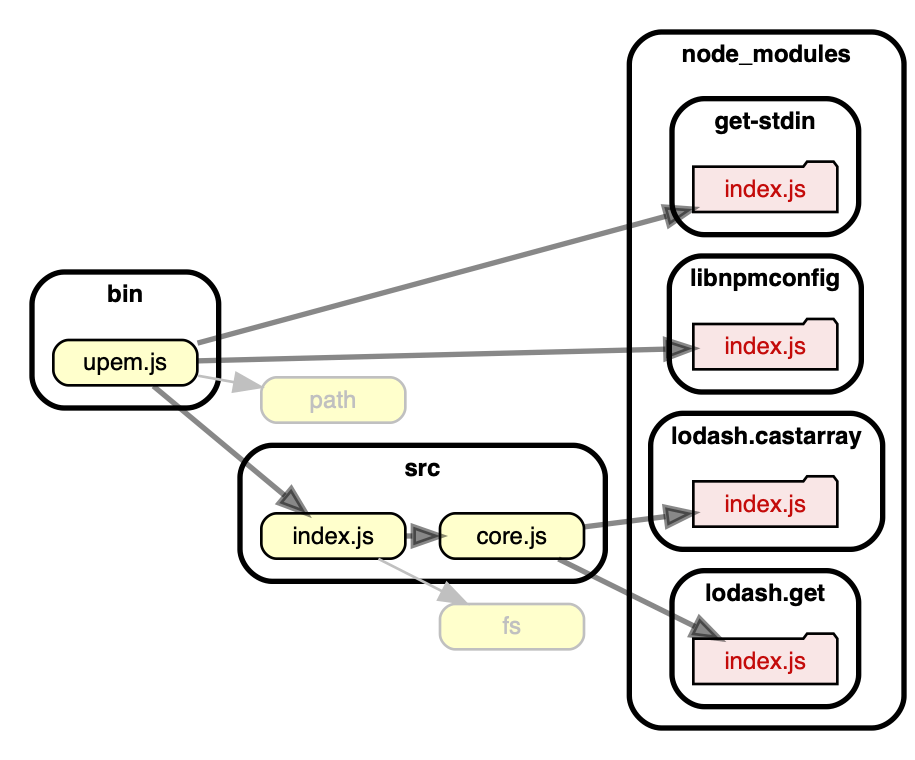
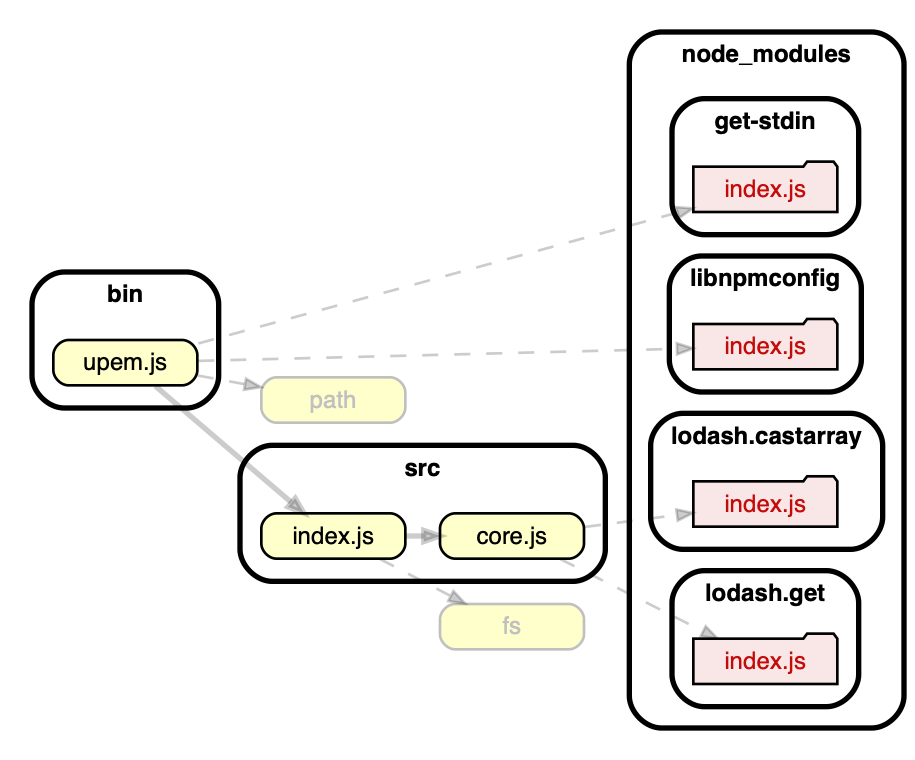
build(npm): :arrow_up: dependency-cruiser, eslint, eslint-config-prettier, eslint-plugin-import, eslint-plugin-node, lint-staged

diff --git a/docs/dependencygraph.html b/docs/dependencygraph.html
@@ -32,55 +32,55 @@
 <?xml version="1.0" encoding="UTF-8" standalone="no"?>
 <!DOCTYPE svg PUBLIC "-//W3C//DTD SVG 1.1//EN"
  "http://www.w3.org/Graphics/SVG/1.1/DTD/svg11.dtd">
-<!-- Generated by graphviz version 2.40.1 (20161225.0304)
+<!-- Generated by graphviz version 2.43.0 (0)
  -->
 <!-- Title: dependency&#45;cruiser output Pages: 1 -->
 <svg width="343pt" height="285pt"
  viewBox="0.00 0.00 343.00 285.00" xmlns="http://www.w3.org/2000/svg" xmlns:xlink="http://www.w3.org/1999/xlink">
 <g id="graph0" class="graph" transform="scale(1 1) rotate(0) translate(4 281)">
 <title>dependency&#45;cruiser output</title>
-<polygon fill="#ffffff" stroke="transparent" points="-4,4 -4,-281 339,-281 339,4 -4,4"/>
+<polygon fill="white" stroke="transparent" points="-4,4 -4,-281 339,-281 339,4 -4,4"/>
 <g id="clust1" class="cluster">
 <title>cluster_bin</title>
-<path fill="#ffffff" stroke="#000000" stroke-width="2" d="M20,-128C20,-128 66,-128 66,-128 72,-128 78,-134 78,-140 78,-140 78,-167 78,-167 78,-173 72,-179 66,-179 66,-179 20,-179 20,-179 14,-179 8,-173 8,-167 8,-167 8,-140 8,-140 8,-134 14,-128 20,-128"/>
-<text text-anchor="middle" x="43" y="-167.8" font-family="Helvetica,sans-Serif" font-weight="bold" font-size="9.00" fill="#000000">bin</text>
+<path fill="#ffffff" stroke="black" stroke-width="2" d="M20,-128C20,-128 66,-128 66,-128 72,-128 78,-134 78,-140 78,-140 78,-167 78,-167 78,-173 72,-179 66,-179 66,-179 20,-179 20,-179 14,-179 8,-173 8,-167 8,-167 8,-140 8,-140 8,-134 14,-128 20,-128"/>
+<text text-anchor="middle" x="43" y="-167.8" font-family="Helvetica,sans-Serif" font-weight="bold" font-size="9.00">bin</text>
 </g>
 <g id="clust2" class="cluster">
 <title>cluster_node_modules</title>
-<path fill="#ffffff" stroke="#000000" stroke-width="2" d="M244,-8C244,-8 323,-8 323,-8 329,-8 335,-14 335,-20 335,-20 335,-257 335,-257 335,-263 329,-269 323,-269 323,-269 244,-269 244,-269 238,-269 232,-263 232,-257 232,-257 232,-20 232,-20 232,-14 238,-8 244,-8"/>
-<text text-anchor="middle" x="283.5" y="-257.8" font-family="Helvetica,sans-Serif" font-weight="bold" font-size="9.00" fill="#000000">node_modules</text>
+<path fill="#ffffff" stroke="black" stroke-width="2" d="M244,-8C244,-8 323,-8 323,-8 329,-8 335,-14 335,-20 335,-20 335,-257 335,-257 335,-263 329,-269 323,-269 323,-269 244,-269 244,-269 238,-269 232,-263 232,-257 232,-257 232,-20 232,-20 232,-14 238,-8 244,-8"/>
+<text text-anchor="middle" x="283.5" y="-257.8" font-family="Helvetica,sans-Serif" font-weight="bold" font-size="9.00">node_modules</text>
 </g>
 <g id="clust3" class="cluster">
 <title>cluster_node_modules/get&#45;stdin</title>
-<path fill="#ffffff" stroke="#000000" stroke-width="2" d="M260,-193C260,-193 306,-193 306,-193 312,-193 318,-199 318,-205 318,-205 318,-232 318,-232 318,-238 312,-244 306,-244 306,-244 260,-244 260,-244 254,-244 248,-238 248,-232 248,-232 248,-205 248,-205 248,-199 254,-193 260,-193"/>
-<text text-anchor="middle" x="283" y="-232.8" font-family="Helvetica,sans-Serif" font-weight="bold" font-size="9.00" fill="#000000">get&#45;stdin</text>
+<path fill="#ffffff" stroke="black" stroke-width="2" d="M260,-193C260,-193 306,-193 306,-193 312,-193 318,-199 318,-205 318,-205 318,-232 318,-232 318,-238 312,-244 306,-244 306,-244 260,-244 260,-244 254,-244 248,-238 248,-232 248,-232 248,-205 248,-205 248,-199 254,-193 260,-193"/>
+<text text-anchor="middle" x="283" y="-232.8" font-family="Helvetica,sans-Serif" font-weight="bold" font-size="9.00">get&#45;stdin</text>
 </g>
 <g id="clust4" class="cluster">
 <title>cluster_node_modules/libnpmconfig</title>
-<path fill="#ffffff" stroke="#000000" stroke-width="2" d="M259,-134C259,-134 307,-134 307,-134 313,-134 319,-140 319,-146 319,-146 319,-173 319,-173 319,-179 313,-185 307,-185 307,-185 259,-185 259,-185 253,-185 247,-179 247,-173 247,-173 247,-146 247,-146 247,-140 253,-134 259,-134"/>
-<text text-anchor="middle" x="283" y="-173.8" font-family="Helvetica,sans-Serif" font-weight="bold" font-size="9.00" fill="#000000">libnpmconfig</text>
+<path fill="#ffffff" stroke="black" stroke-width="2" d="M259,-134C259,-134 307,-134 307,-134 313,-134 319,-140 319,-146 319,-146 319,-173 319,-173 319,-179 313,-185 307,-185 307,-185 259,-185 259,-185 253,-185 247,-179 247,-173 247,-173 247,-146 247,-146 247,-140 253,-134 259,-134"/>
+<text text-anchor="middle" x="283" y="-173.8" font-family="Helvetica,sans-Serif" font-weight="bold" font-size="9.00">libnpmconfig</text>
 </g>
 <g id="clust5" class="cluster">
 <title>cluster_node_modules/lodash.castarray</title>
-<path fill="#ffffff" stroke="#000000" stroke-width="2" d="M252,-75C252,-75 315,-75 315,-75 321,-75 327,-81 327,-87 327,-87 327,-114 327,-114 327,-120 321,-126 315,-126 315,-126 252,-126 252,-126 246,-126 240,-120 240,-114 240,-114 240,-87 240,-87 240,-81 246,-75 252,-75"/>
-<text text-anchor="middle" x="283.5" y="-114.8" font-family="Helvetica,sans-Serif" font-weight="bold" font-size="9.00" fill="#000000">lodash.castarray</text>
+<path fill="#ffffff" stroke="black" stroke-width="2" d="M252,-75C252,-75 315,-75 315,-75 321,-75 327,-81 327,-87 327,-87 327,-114 327,-114 327,-120 321,-126 315,-126 315,-126 252,-126 252,-126 246,-126 240,-120 240,-114 240,-114 240,-87 240,-87 240,-81 246,-75 252,-75"/>
+<text text-anchor="middle" x="283.5" y="-114.8" font-family="Helvetica,sans-Serif" font-weight="bold" font-size="9.00">lodash.castarray</text>
 </g>
 <g id="clust6" class="cluster">
 <title>cluster_node_modules/lodash.get</title>
-<path fill="#ffffff" stroke="#000000" stroke-width="2" d="M260,-16C260,-16 306,-16 306,-16 312,-16 318,-22 318,-28 318,-28 318,-55 318,-55 318,-61 312,-67 306,-67 306,-67 260,-67 260,-67 254,-67 248,-61 248,-55 248,-55 248,-28 248,-28 248,-22 254,-16 260,-16"/>
-<text text-anchor="middle" x="283" y="-55.8" font-family="Helvetica,sans-Serif" font-weight="bold" font-size="9.00" fill="#000000">lodash.get</text>
+<path fill="#ffffff" stroke="black" stroke-width="2" d="M260,-16C260,-16 306,-16 306,-16 312,-16 318,-22 318,-28 318,-28 318,-55 318,-55 318,-61 312,-67 306,-67 306,-67 260,-67 260,-67 254,-67 248,-61 248,-55 248,-55 248,-28 248,-28 248,-22 254,-16 260,-16"/>
+<text text-anchor="middle" x="283" y="-55.8" font-family="Helvetica,sans-Serif" font-weight="bold" font-size="9.00">lodash.get</text>
 </g>
 <g id="clust7" class="cluster">
 <title>cluster_src</title>
-<path fill="#ffffff" stroke="#000000" stroke-width="2" d="M98,-63C98,-63 211,-63 211,-63 217,-63 223,-69 223,-75 223,-75 223,-102 223,-102 223,-108 217,-114 211,-114 211,-114 98,-114 98,-114 92,-114 86,-108 86,-102 86,-102 86,-75 86,-75 86,-69 92,-63 98,-63"/>
-<text text-anchor="middle" x="154.5" y="-102.8" font-family="Helvetica,sans-Serif" font-weight="bold" font-size="9.00" fill="#000000">src</text>
+<path fill="#ffffff" stroke="black" stroke-width="2" d="M98,-63C98,-63 211,-63 211,-63 217,-63 223,-69 223,-75 223,-75 223,-102 223,-102 223,-108 217,-114 211,-114 211,-114 98,-114 98,-114 92,-114 86,-108 86,-102 86,-102 86,-75 86,-75 86,-69 92,-63 98,-63"/>
+<text text-anchor="middle" x="154.5" y="-102.8" font-family="Helvetica,sans-Serif" font-weight="bold" font-size="9.00">src</text>
 </g>
 <!-- bin/upem.js -->
 <g id="node1" class="node">
 <title>bin/upem.js</title>
 <g id="a_node1"><a xlink:href="https://github.com/sverweij/upem/blob/master/bin/upem.js" xlink:title="upem.js">
-<path fill="#ffffcc" stroke="#000000" d="M64.3333,-153.5C64.3333,-153.5 21.6667,-153.5 21.6667,-153.5 18.8333,-153.5 16,-150.6667 16,-147.8333 16,-147.8333 16,-142.1667 16,-142.1667 16,-139.3333 18.8333,-136.5 21.6667,-136.5 21.6667,-136.5 64.3333,-136.5 64.3333,-136.5 67.1667,-136.5 70,-139.3333 70,-142.1667 70,-142.1667 70,-147.8333 70,-147.8333 70,-150.6667 67.1667,-153.5 64.3333,-153.5"/>
-<text text-anchor="middle" x="43" y="-142.3" font-family="Helvetica,sans-Serif" font-size="9.00" fill="#000000">upem.js</text>
+<path fill="#ffffcc" stroke="black" d="M64.33,-153.5C64.33,-153.5 21.67,-153.5 21.67,-153.5 18.83,-153.5 16,-150.67 16,-147.83 16,-147.83 16,-142.17 16,-142.17 16,-139.33 18.83,-136.5 21.67,-136.5 21.67,-136.5 64.33,-136.5 64.33,-136.5 67.17,-136.5 70,-139.33 70,-142.17 70,-142.17 70,-147.83 70,-147.83 70,-150.67 67.17,-153.5 64.33,-153.5"/>
+<text text-anchor="middle" x="43" y="-142.3" font-family="Helvetica,sans-Serif" font-size="9.00">upem.js</text>
 </a>
 </g>
 </g>
@@ -88,7 +88,7 @@
 <g id="node3" class="node">
 <title>node_modules/get&#45;stdin/index.js</title>
 <g id="a_node3"><a xlink:href="https://github.com/sverweij/upem/blob/master/node_modules/get-stdin/index.js" xlink:title="index.js">
-<polygon fill="#c40b0a" fill-opacity="0.101961" stroke="#000000" points="310,-218.5 308.5833,-220.3889 298.6667,-220.3889 297.25,-218.5 256,-218.5 256,-201.5 310,-201.5 310,-218.5"/>
+<polygon fill="#c40b0a" fill-opacity="0.101961" stroke="black" points="310,-218.5 308.58,-220.39 298.67,-220.39 297.25,-218.5 256,-218.5 256,-201.5 310,-201.5 310,-218.5"/>
 <text text-anchor="middle" x="283" y="-207.3" font-family="Helvetica,sans-Serif" font-size="9.00" fill="#c40b0a">index.js</text>
 </a>
 </g>
@@ -96,14 +96,14 @@
 <!-- bin/upem.js&#45;&gt;node_modules/get&#45;stdin/index.js -->
 <g id="edge2" class="edge">
 <title>bin/upem.js&#45;&gt;node_modules/get&#45;stdin/index.js</title>
-<path fill="none" stroke="#000000" stroke-width="2" stroke-opacity="0.466667" d="M70.0645,-152.33C113.0975,-163.9847 197.215,-186.7666 245.8533,-199.9394"/>
-<polygon fill="#000000" fill-opacity="0.466667" stroke="#000000" stroke-width="2" stroke-opacity="0.466667" points="245.0989,-203.3611 255.6662,-202.5971 246.9289,-196.6046 245.0989,-203.3611"/>
+<path fill="none" stroke="#000000" stroke-dasharray="5,2" stroke-opacity="0.200000" d="M70.38,-152.2C114.37,-164.22 202.54,-188.3 250.01,-201.26"/>
+<polygon fill="#000000" fill-opacity="0.200000" stroke="#000000" stroke-opacity="0.200000" points="249.52,-203.31 255.87,-202.86 250.63,-199.26 249.52,-203.31"/>
 </g>
 <!-- node_modules/libnpmconfig/index.js -->
 <g id="node4" class="node">
 <title>node_modules/libnpmconfig/index.js</title>
 <g id="a_node4"><a xlink:href="https://github.com/sverweij/upem/blob/master/node_modules/libnpmconfig/index.js" xlink:title="index.js">
-<polygon fill="#c40b0a" fill-opacity="0.101961" stroke="#000000" points="310,-159.5 308.5833,-161.3889 298.6667,-161.3889 297.25,-159.5 256,-159.5 256,-142.5 310,-142.5 310,-159.5"/>
+<polygon fill="#c40b0a" fill-opacity="0.101961" stroke="black" points="310,-159.5 308.58,-161.39 298.67,-161.39 297.25,-159.5 256,-159.5 256,-142.5 310,-142.5 310,-159.5"/>
 <text text-anchor="middle" x="283" y="-148.3" font-family="Helvetica,sans-Serif" font-size="9.00" fill="#c40b0a">index.js</text>
 </a>
 </g>
@@ -111,47 +111,47 @@
 <!-- bin/upem.js&#45;&gt;node_modules/libnpmconfig/index.js -->
 <g id="edge3" class="edge">
 <title>bin/upem.js&#45;&gt;node_modules/libnpmconfig/index.js</title>
-<path fill="none" stroke="#000000" stroke-width="2" stroke-opacity="0.466667" d="M70.0645,-145.6766C113.0074,-146.7502 196.8632,-148.8466 245.5476,-150.0637"/>
-<polygon fill="#000000" fill-opacity="0.466667" stroke="#000000" stroke-width="2" stroke-opacity="0.466667" points="245.5818,-153.5655 255.6662,-150.3167 245.7568,-146.5677 245.5818,-153.5655"/>
+<path fill="none" stroke="#000000" stroke-dasharray="5,2" stroke-opacity="0.200000" d="M70.38,-145.67C114.28,-146.77 202.18,-148.99 249.71,-150.19"/>
+<polygon fill="#000000" fill-opacity="0.200000" stroke="#000000" stroke-opacity="0.200000" points="249.81,-152.29 255.87,-150.34 249.92,-148.09 249.81,-152.29"/>
 </g>
 <!-- path -->
 <g id="node7" class="node">
 <title>path</title>
-<path fill="#ffffcc" stroke="#c0c0c0" d="M142.3333,-139.5C142.3333,-139.5 99.6667,-139.5 99.6667,-139.5 96.8333,-139.5 94,-136.6667 94,-133.8333 94,-133.8333 94,-128.1667 94,-128.1667 94,-125.3333 96.8333,-122.5 99.6667,-122.5 99.6667,-122.5 142.3333,-122.5 142.3333,-122.5 145.1667,-122.5 148,-125.3333 148,-128.1667 148,-128.1667 148,-133.8333 148,-133.8333 148,-136.6667 145.1667,-139.5 142.3333,-139.5"/>
-<text text-anchor="middle" x="121" y="-128.3" font-family="Helvetica,sans-Serif" font-size="9.00" fill="#c0c0c0">path</text>
+<path fill="#ffffcc" stroke="grey" d="M142.33,-139.5C142.33,-139.5 99.67,-139.5 99.67,-139.5 96.83,-139.5 94,-136.67 94,-133.83 94,-133.83 94,-128.17 94,-128.17 94,-125.33 96.83,-122.5 99.67,-122.5 99.67,-122.5 142.33,-122.5 142.33,-122.5 145.17,-122.5 148,-125.33 148,-128.17 148,-128.17 148,-133.83 148,-133.83 148,-136.67 145.17,-139.5 142.33,-139.5"/>
+<text text-anchor="middle" x="121" y="-128.3" font-family="Helvetica,sans-Serif" font-size="9.00" fill="grey">path</text>
 </g>
 <!-- bin/upem.js&#45;&gt;path -->
 <g id="edge4" class="edge">
 <title>bin/upem.js&#45;&gt;path</title>
-<path fill="none" stroke="#c0c0c0" d="M70.2806,-140.1035C74.6999,-139.3103 79.3404,-138.4774 83.9447,-137.6509"/>
-<polygon fill="#c0c0c0" stroke="#c0c0c0" points="84.6421,-141.0818 93.8665,-135.8701 83.4054,-134.1919 84.6421,-141.0818"/>
+<path fill="none" stroke="#000000" stroke-dasharray="5,2" stroke-opacity="0.200000" d="M70.15,-140.18C75.77,-139.15 81.76,-138.04 87.58,-136.97"/>
+<polygon fill="#000000" fill-opacity="0.200000" stroke="#000000" stroke-opacity="0.200000" points="88.28,-138.98 93.8,-135.83 87.52,-134.85 88.28,-138.98"/>
 </g>
 <!-- src/index.js -->
 <g id="node9" class="node">
 <title>src/index.js</title>
 <g id="a_node9"><a xlink:href="https://github.com/sverweij/upem/blob/master/src/index.js" xlink:title="index.js">
-<path fill="#ffffcc" stroke="#000000" d="M142.3333,-88.5C142.3333,-88.5 99.6667,-88.5 99.6667,-88.5 96.8333,-88.5 94,-85.6667 94,-82.8333 94,-82.8333 94,-77.1667 94,-77.1667 94,-74.3333 96.8333,-71.5 99.6667,-71.5 99.6667,-71.5 142.3333,-71.5 142.3333,-71.5 145.1667,-71.5 148,-74.3333 148,-77.1667 148,-77.1667 148,-82.8333 148,-82.8333 148,-85.6667 145.1667,-88.5 142.3333,-88.5"/>
-<text text-anchor="middle" x="121" y="-77.3" font-family="Helvetica,sans-Serif" font-size="9.00" fill="#000000">index.js</text>
+<path fill="#ffffcc" stroke="black" d="M142.33,-88.5C142.33,-88.5 99.67,-88.5 99.67,-88.5 96.83,-88.5 94,-85.67 94,-82.83 94,-82.83 94,-77.17 94,-77.17 94,-74.33 96.83,-71.5 99.67,-71.5 99.67,-71.5 142.33,-71.5 142.33,-71.5 145.17,-71.5 148,-74.33 148,-77.17 148,-77.17 148,-82.83 148,-82.83 148,-85.67 145.17,-88.5 142.33,-88.5"/>
+<text text-anchor="middle" x="121" y="-77.3" font-family="Helvetica,sans-Serif" font-size="9.00">index.js</text>
 </a>
 </g>
 </g>
 <!-- bin/upem.js&#45;&gt;src/index.js -->
 <g id="edge1" class="edge">
 <title>bin/upem.js&#45;&gt;src/index.js</title>
-<path fill="none" stroke="#000000" stroke-width="2" stroke-opacity="0.466667" d="M53.5194,-136.2338C66.1504,-125.708 87.5448,-107.8793 102.8591,-95.1174"/>
-<polygon fill="#000000" fill-opacity="0.466667" stroke="#000000" stroke-width="2" stroke-opacity="0.466667" points="105.2057,-97.718 110.6472,-88.6273 100.7243,-92.3404 105.2057,-97.718"/>
+<path fill="none" stroke="#000000" stroke-width="2" stroke-opacity="0.200000" d="M54.25,-136.23C67.35,-125.03 90.14,-105.54 105.15,-92.7"/>
+<polygon fill="#000000" fill-opacity="0.200000" stroke="#000000" stroke-width="2" stroke-opacity="0.200000" points="106.72,-94.12 109.91,-88.63 103.99,-90.93 106.72,-94.12"/>
 </g>
 <!-- fs -->
 <g id="node2" class="node">
 <title>fs</title>
-<path fill="#ffffcc" stroke="#c0c0c0" d="M209.3333,-54.5C209.3333,-54.5 166.6667,-54.5 166.6667,-54.5 163.8333,-54.5 161,-51.6667 161,-48.8333 161,-48.8333 161,-43.1667 161,-43.1667 161,-40.3333 163.8333,-37.5 166.6667,-37.5 166.6667,-37.5 209.3333,-37.5 209.3333,-37.5 212.1667,-37.5 215,-40.3333 215,-43.1667 215,-43.1667 215,-48.8333 215,-48.8333 215,-51.6667 212.1667,-54.5 209.3333,-54.5"/>
-<text text-anchor="middle" x="188" y="-43.3" font-family="Helvetica,sans-Serif" font-size="9.00" fill="#c0c0c0">fs</text>
+<path fill="#ffffcc" stroke="grey" d="M209.33,-54.5C209.33,-54.5 166.67,-54.5 166.67,-54.5 163.83,-54.5 161,-51.67 161,-48.83 161,-48.83 161,-43.17 161,-43.17 161,-40.33 163.83,-37.5 166.67,-37.5 166.67,-37.5 209.33,-37.5 209.33,-37.5 212.17,-37.5 215,-40.33 215,-43.17 215,-43.17 215,-48.83 215,-48.83 215,-51.67 212.17,-54.5 209.33,-54.5"/>
+<text text-anchor="middle" x="188" y="-43.3" font-family="Helvetica,sans-Serif" font-size="9.00" fill="grey">fs</text>
 </g>
 <!-- node_modules/lodash.castarray/index.js -->
 <g id="node5" class="node">
 <title>node_modules/lodash.castarray/index.js</title>
 <g id="a_node5"><a xlink:href="https://github.com/sverweij/upem/blob/master/node_modules/lodash.castarray/index.js" xlink:title="index.js">
-<polygon fill="#c40b0a" fill-opacity="0.101961" stroke="#000000" points="310,-100.5 308.5833,-102.3889 298.6667,-102.3889 297.25,-100.5 256,-100.5 256,-83.5 310,-83.5 310,-100.5"/>
+<polygon fill="#c40b0a" fill-opacity="0.101961" stroke="black" points="310,-100.5 308.58,-102.39 298.67,-102.39 297.25,-100.5 256,-100.5 256,-83.5 310,-83.5 310,-100.5"/>
 <text text-anchor="middle" x="283" y="-89.3" font-family="Helvetica,sans-Serif" font-size="9.00" fill="#c40b0a">index.js</text>
 </a>
 </g>
@@ -160,7 +160,7 @@
 <g id="node6" class="node">
 <title>node_modules/lodash.get/index.js</title>
 <g id="a_node6"><a xlink:href="https://github.com/sverweij/upem/blob/master/node_modules/lodash.get/index.js" xlink:title="index.js">
-<polygon fill="#c40b0a" fill-opacity="0.101961" stroke="#000000" points="310,-41.5 308.5833,-43.3889 298.6667,-43.3889 297.25,-41.5 256,-41.5 256,-24.5 310,-24.5 310,-41.5"/>
+<polygon fill="#c40b0a" fill-opacity="0.101961" stroke="black" points="310,-41.5 308.58,-43.39 298.67,-43.39 297.25,-41.5 256,-41.5 256,-24.5 310,-24.5 310,-41.5"/>
 <text text-anchor="middle" x="283" y="-30.3" font-family="Helvetica,sans-Serif" font-size="9.00" fill="#c40b0a">index.js</text>
 </a>
 </g>
@@ -169,34 +169,34 @@
 <g id="node8" class="node">
 <title>src/core.js</title>
 <g id="a_node8"><a xlink:href="https://github.com/sverweij/upem/blob/master/src/core.js" xlink:title="core.js">
-<path fill="#ffffcc" stroke="#000000" d="M209.3333,-88.5C209.3333,-88.5 166.6667,-88.5 166.6667,-88.5 163.8333,-88.5 161,-85.6667 161,-82.8333 161,-82.8333 161,-77.1667 161,-77.1667 161,-74.3333 163.8333,-71.5 166.6667,-71.5 166.6667,-71.5 209.3333,-71.5 209.3333,-71.5 212.1667,-71.5 215,-74.3333 215,-77.1667 215,-77.1667 215,-82.8333 215,-82.8333 215,-85.6667 212.1667,-88.5 209.3333,-88.5"/>
-<text text-anchor="middle" x="188" y="-77.3" font-family="Helvetica,sans-Serif" font-size="9.00" fill="#000000">core.js</text>
+<path fill="#ffffcc" stroke="black" d="M209.33,-88.5C209.33,-88.5 166.67,-88.5 166.67,-88.5 163.83,-88.5 161,-85.67 161,-82.83 161,-82.83 161,-77.17 161,-77.17 161,-74.33 163.83,-71.5 166.67,-71.5 166.67,-71.5 209.33,-71.5 209.33,-71.5 212.17,-71.5 215,-74.33 215,-77.17 215,-77.17 215,-82.83 215,-82.83 215,-85.67 212.17,-88.5 209.33,-88.5"/>
+<text text-anchor="middle" x="188" y="-77.3" font-family="Helvetica,sans-Serif" font-size="9.00">core.js</text>
 </a>
 </g>
 </g>
 <!-- src/core.js&#45;&gt;node_modules/lodash.castarray/index.js -->
 <g id="edge5" class="edge">
 <title>src/core.js&#45;&gt;node_modules/lodash.castarray/index.js</title>
-<path fill="none" stroke="#000000" stroke-width="2" stroke-opacity="0.466667" d="M215.2232,-83.4387C224.664,-84.6312 235.4204,-85.99 245.5398,-87.2682"/>
-<polygon fill="#000000" fill-opacity="0.466667" stroke="#000000" stroke-width="2" stroke-opacity="0.466667" points="245.413,-90.7799 255.7728,-88.5608 246.2903,-83.8351 245.413,-90.7799"/>
+<path fill="none" stroke="#000000" stroke-dasharray="5,2" stroke-opacity="0.200000" d="M215.4,-83.41C226.09,-84.79 238.54,-86.39 249.77,-87.84"/>
+<polygon fill="#000000" fill-opacity="0.200000" stroke="#000000" stroke-opacity="0.200000" points="249.64,-89.94 255.85,-88.63 250.17,-85.78 249.64,-89.94"/>
 </g>
 <!-- src/core.js&#45;&gt;node_modules/lodash.get/index.js -->
 <g id="edge6" class="edge">
 <title>src/core.js&#45;&gt;node_modules/lodash.get/index.js</title>
-<path fill="none" stroke="#000000" stroke-width="2" stroke-opacity="0.466667" d="M205.4245,-71.3795C219.7533,-64.2905 240.2851,-54.1326 256.6269,-46.0477"/>
-<polygon fill="#000000" fill-opacity="0.466667" stroke="#000000" stroke-width="2" stroke-opacity="0.466667" points="258.275,-49.1374 265.686,-41.5659 255.1709,-42.8632 258.275,-49.1374"/>
+<path fill="none" stroke="#000000" stroke-dasharray="5,2" stroke-opacity="0.200000" d="M206.06,-71.38C221,-63.83 242.84,-52.79 259.27,-44.49"/>
+<polygon fill="#000000" fill-opacity="0.200000" stroke="#000000" stroke-opacity="0.200000" points="260.64,-46.15 265.05,-41.57 258.75,-42.4 260.64,-46.15"/>
 </g>
 <!-- src/index.js&#45;&gt;fs -->
 <g id="edge8" class="edge">
 <title>src/index.js&#45;&gt;fs</title>
-<path fill="none" stroke="#c0c0c0" d="M137.9069,-71.4204C145.1513,-67.7441 153.7807,-63.365 161.8191,-59.2858"/>
-<polygon fill="#c0c0c0" stroke="#c0c0c0" points="163.5318,-62.3416 170.8654,-54.6952 160.3641,-56.0994 163.5318,-62.3416"/>
+<path fill="none" stroke="#000000" stroke-dasharray="5,2" stroke-opacity="0.200000" d="M138.4,-71.42C146.35,-67.26 156.01,-62.21 164.62,-57.71"/>
+<polygon fill="#000000" fill-opacity="0.200000" stroke="#000000" stroke-opacity="0.200000" points="166.03,-59.34 170.38,-54.7 164.09,-55.62 166.03,-59.34"/>
 </g>
 <!-- src/index.js&#45;&gt;src/core.js -->
 <g id="edge7" class="edge">
 <title>src/index.js&#45;&gt;src/core.js</title>
-<path fill="none" stroke="#000000" stroke-width="2" stroke-opacity="0.466667" d="M148.2515,-80C149.0394,-80 149.8322,-80 150.6279,-80"/>
-<polygon fill="#000000" fill-opacity="0.466667" stroke="#000000" stroke-width="2" stroke-opacity="0.466667" points="150.9899,-83.5001 160.9899,-80 150.9899,-76.5001 150.9899,-83.5001"/>
+<path fill="none" stroke="#000000" stroke-width="2" stroke-opacity="0.200000" d="M148.06,-80C150.32,-80 152.61,-80 154.9,-80"/>
+<polygon fill="#000000" fill-opacity="0.200000" stroke="#000000" stroke-width="2" stroke-opacity="0.200000" points="154.93,-82.1 160.93,-80 154.93,-77.9 154.93,-82.1"/>
 </g>
 </g>
 </svg>
